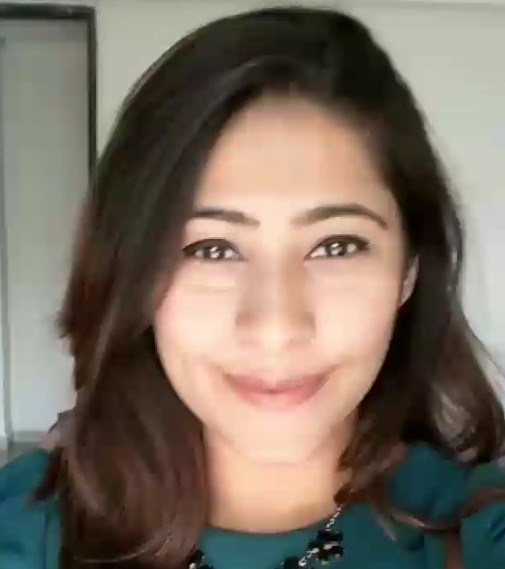
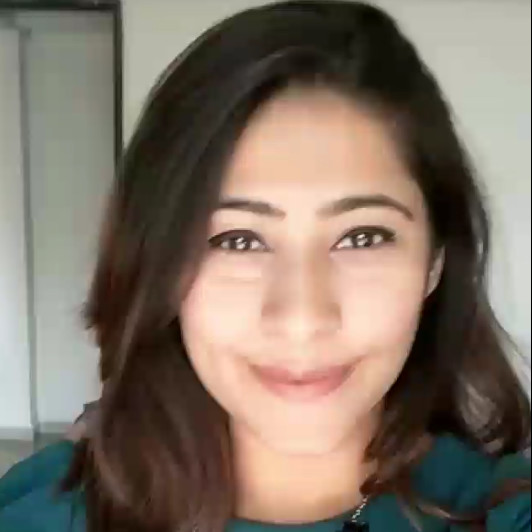
Fixed profile photo size and crop

diff --git a/css/freelancer.css b/css/freelancer.css
@@ -197,7 +197,7 @@ header.masthead h2 {
 
 header.masthead img {
     width: 250px;
-    height: 270px;
+    height: 250px;
     border-radius: 270px;
 }
 
